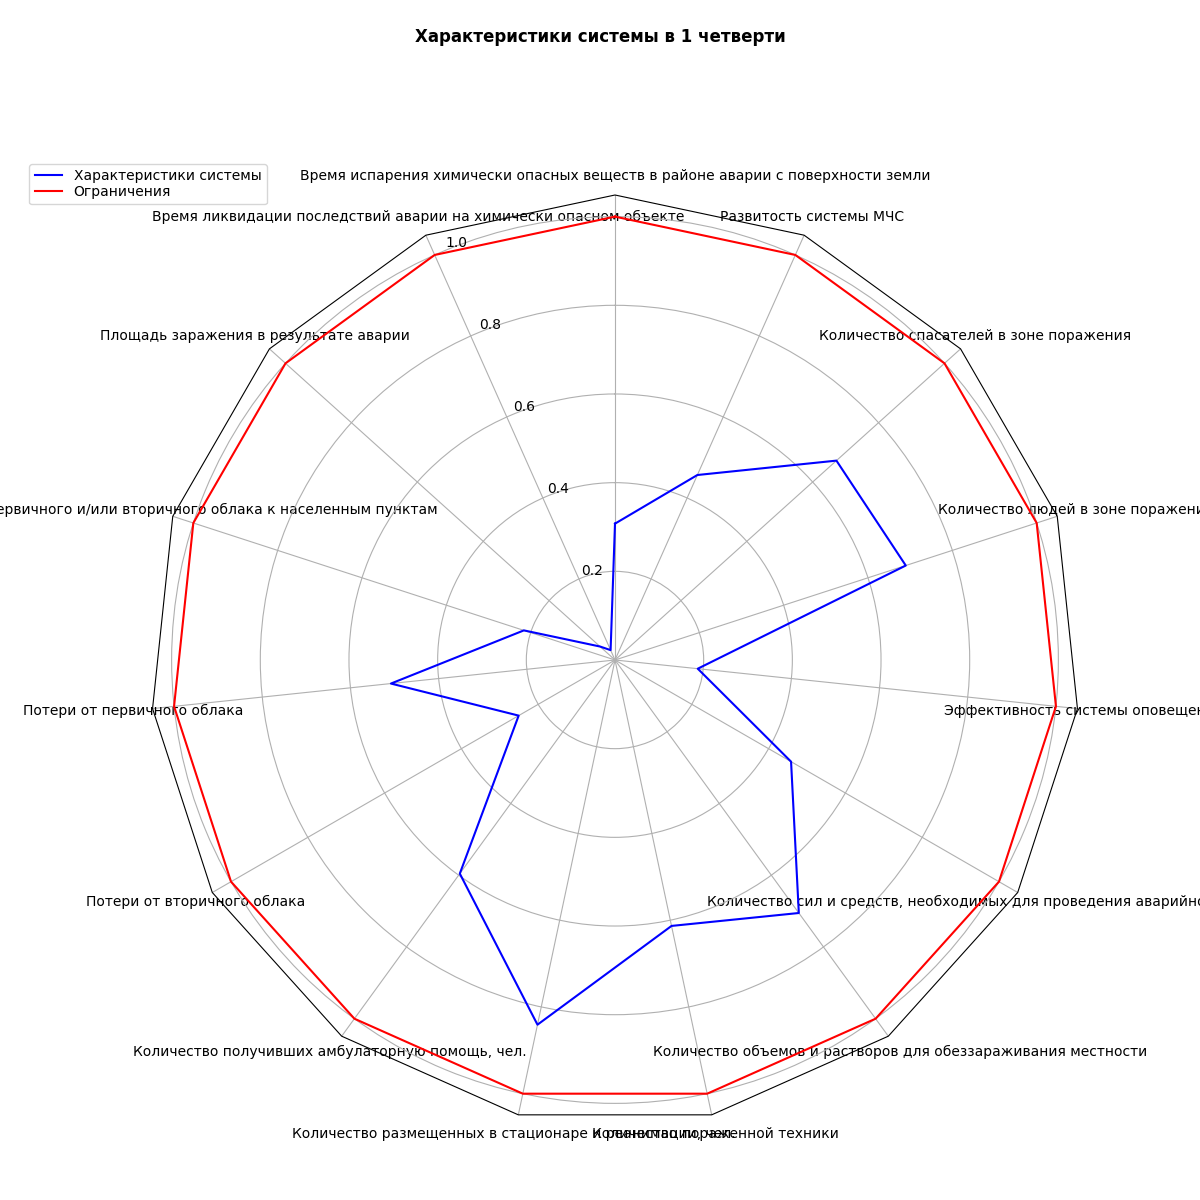
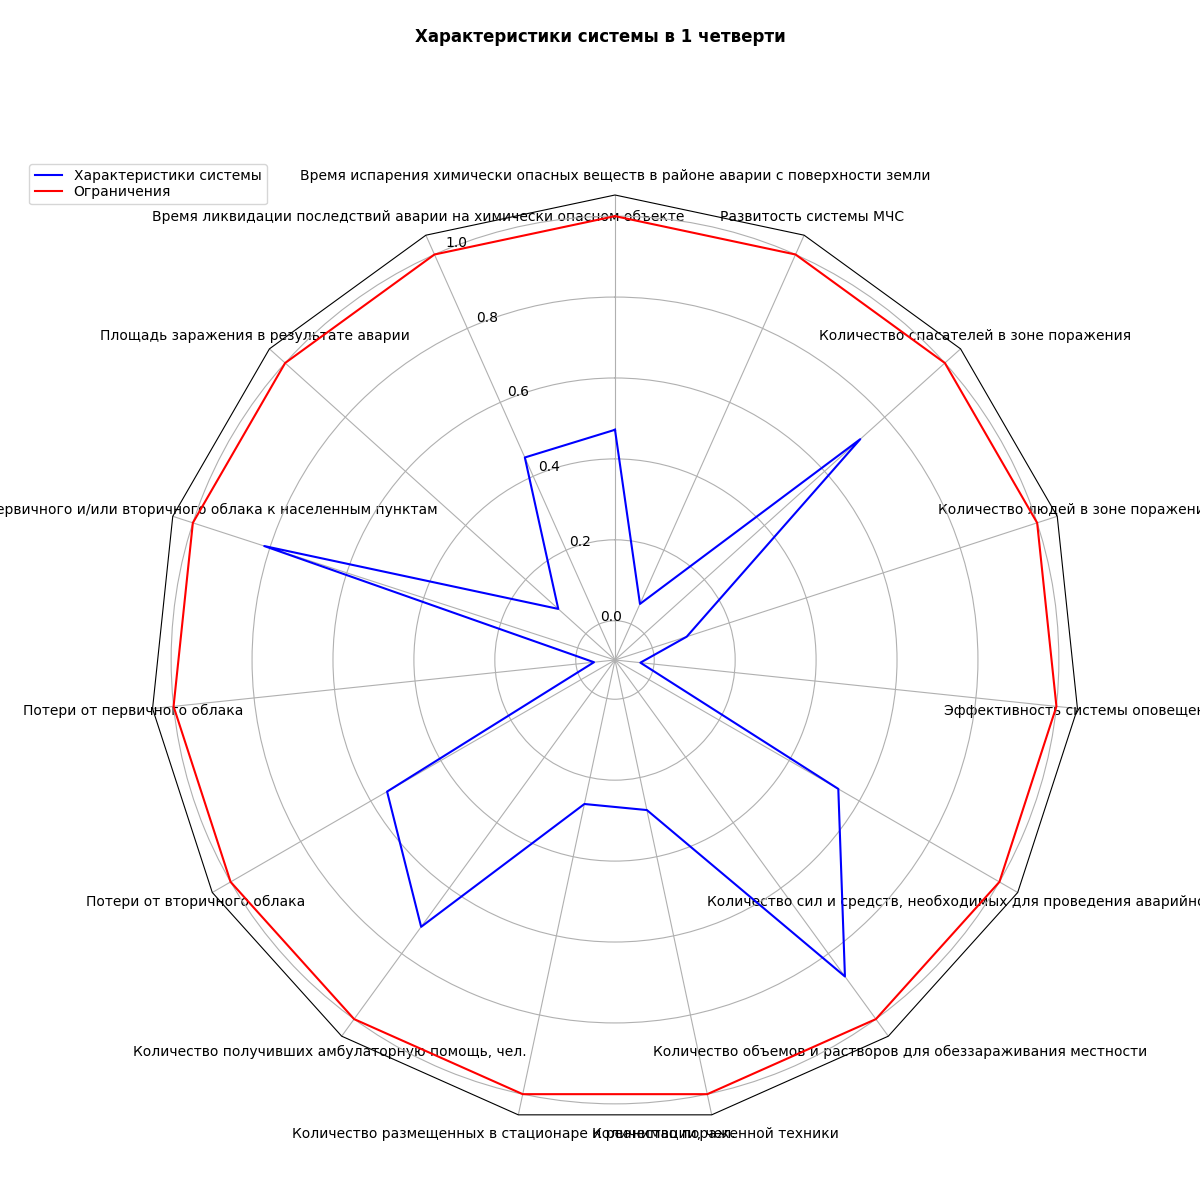
Добавил обновление значений

diff --git a/static/js/script.js b/static/js/script.js
@@ -7,27 +7,7 @@ function random() {
 }
 
 if (input.value !== "Выполнено") {
-    for (let i=1; i<5; i++) {
-        for (let j=1; j<5; j++) {
-            let value = random()
-            sessionStorage.setItem("faks-" + i + "-" + j, value)
-            let el = document.getElementById("faks-" + i + "-" + j).value = value
-        }
-    }
-
-    for (let i=1; i<16; i++) {
-        let value = random()
-        sessionStorage.setItem("init-eq-" + i, value)
-        let init_eq_el = document.getElementById("init-eq-" + i).value = value
-    }
-
-    for (let i=1; i<56; i++) {
-        for (let j=1; j<5; j++) {
-            let value = random()
-            sessionStorage.setItem("equations-" + i + "-" + j, value)
-            let el = document.getElementById("equations-" + i + "-" + j).value = value
-        }
-    }
+    refill()
 }
 else {
     for (let i=1; i<5; i++) {
@@ -125,4 +105,30 @@ async function process() {
         const result = await response.json()
         input.value = result.status
         sessionStorage.setItem("status", result.status)
+}
+
+function refill() {
+    for (let i=1; i<5; i++) {
+        for (let j=1; j<5; j++) {
+            let value = random()
+            sessionStorage.setItem("faks-" + i + "-" + j, value)
+            let el = document.getElementById("faks-" + i + "-" + j).value = value
+        }
+    }
+
+    for (let i=1; i<16; i++) {
+        let value = random()
+        sessionStorage.setItem("init-eq-" + i, value)
+        let init_eq_el = document.getElementById("init-eq-" + i).value = value
+    }
+
+    for (let i=1; i<56; i++) {
+        for (let j=1; j<5; j++) {
+            let value = random()
+            sessionStorage.setItem("equations-" + i + "-" + j, value)
+            let el = document.getElementById("equations-" + i + "-" + j).value = value
+        }
+    }
+    sessionStorage.removeItem("status")
+    input.value = ""
 }

diff --git a/static/js/diagramsChecker.js b/static/js/diagramsChecker.js
@@ -1,0 +1,16 @@
+const status = sessionStorage.getItem("status")
+
+if (status !== "Выполнено") {
+    document.getElementById("diagram-image").style.visibility = "hidden"
+    document.getElementById("diagram2-image").style.visibility = "hidden"
+    document.getElementById("diagram3-image").style.visibility = "hidden"
+    document.getElementById("diagram4-image").style.visibility = "hidden"
+    document.getElementById("diagram5-image").style.visibility = "hidden"
+}
+else {
+    document.getElementById("diagram-image").style.visibility = "visible"
+    document.getElementById("diagram2-image").style.visibility = "visible"
+    document.getElementById("diagram3-image").style.visibility = "visible"
+    document.getElementById("diagram4-image").style.visibility = "visible"
+    document.getElementById("diagram5-image").style.visibility = "visible"
+}

diff --git a/static/templates/diagrams.html b/static/templates/diagrams.html
@@ -14,20 +14,21 @@
     </header>
 
     <div>
-        <img src="/static/images/diagram.png">
+        <img src="/static/images/diagram.png" id="diagram-image">
     </div>
     <div>
-        <img src="/static/images/diagram2.png">
+        <img src="/static/images/diagram2.png" id="diagram2-image">
     </div>
     <div>
-        <img src="/static/images/diagram3.png">
+        <img src="/static/images/diagram3.png" id="diagram3-image">
     </div>
     <div>
-        <img src="/static/images/diagram4.png">
+        <img src="/static/images/diagram4.png" id="diagram4-image">
     </div>
     <div>
-        <img src="/static/images/diagram5.png">
+        <img src="/static/images/diagram5.png" id="diagram5-image">
     </div>
 </div>
+<script src="/static/js/diagramsChecker.js"></script>
 </body>
 </html>

diff --git a/static/templates/index.html b/static/templates/index.html
@@ -55,6 +55,7 @@
     <span>Статус</span>
     <input type="text" readonly id="status-input">
     <button onclick="process()">Вычислить</button>
+    <button onclick="refill()">Обновить значения</button>
 </div>
 <script src="/static/js/script.js"></script>
 </body>

diff --git a/static/js/graphicChecker.js b/static/js/graphicChecker.js
@@ -1,0 +1,9 @@
+const status = sessionStorage.getItem("status")
+const element = document.getElementById("graphic-image")
+
+if (status !== "Выполнено") {
+    element.style.visibility = "hidden"
+}
+else {
+    element.style.visibility = "visible"
+}

diff --git a/static/js/faksChecker.js b/static/js/faksChecker.js
@@ -1,0 +1,9 @@
+const status = sessionStorage.getItem("status")
+const element = document.getElementById("faks-image")
+
+if (status !== "Выполнено") {
+    element.style.visibility = "hidden"
+}
+else {
+    element.style.visibility = "visible"
+}

diff --git a/static/templates/graphic.html b/static/templates/graphic.html
@@ -14,8 +14,9 @@
     </header>
 
     <div>
-        <img src="/static/images/figure.png">
+        <img src="/static/images/figure.png" id="graphic-image">
     </div>
 </div>
+<script src="/static/js/graphicChecker.js"></script>
 </body>
 </html>

diff --git a/static/templates/faks.html b/static/templates/faks.html
@@ -14,8 +14,9 @@
     </header>
 
     <div>
-        <img src="/static/images/figure2.png">
+        <img src="/static/images/figure2.png" id="faks-image">
     </div>
 </div>
+<script src="/static/js/faksChecker.js"></script>
 </body>
 </html>

diff --git a/main.py b/main.py
@@ -1,12 +1,4 @@
-# -*- coding: utf-8 -*-
 from typing import Any, Dict
-
-# Form implementation generated from reading ui file 'Design1.ui'
-#
-# Created by: PyQt5 UI code generator 5.15.4
-#
-# WARNING: Any manual changes made to this file will be lost when pyuic5 is
-# run again.  Do not edit this file unless you know what you are doing.
 
 from fastapi import FastAPI, Depends
 from fastapi.staticfiles import StaticFiles
